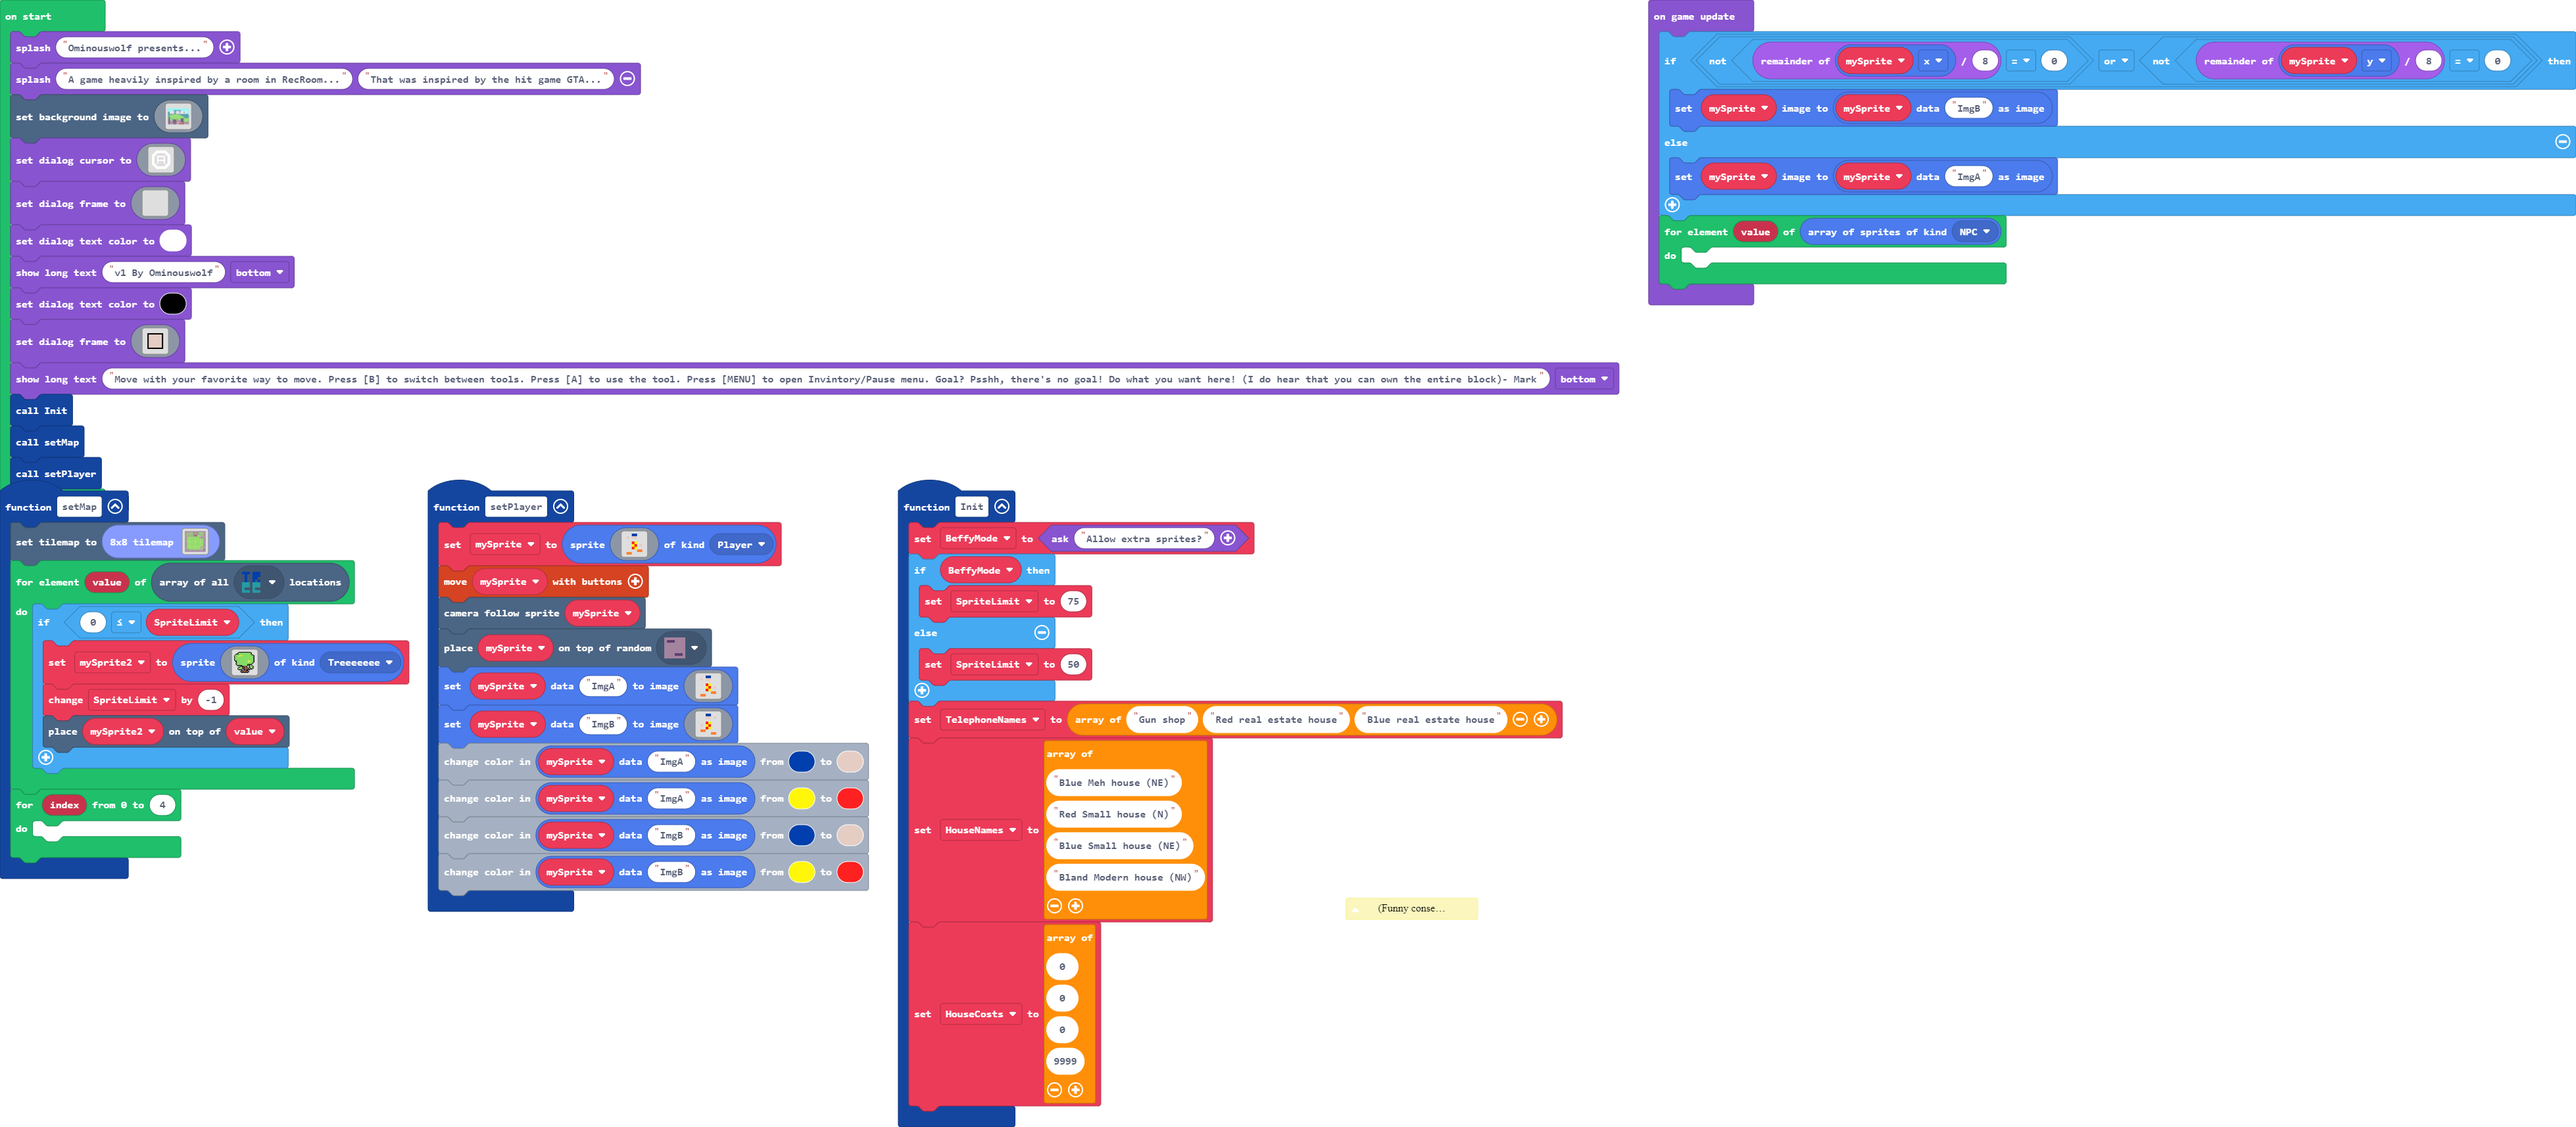
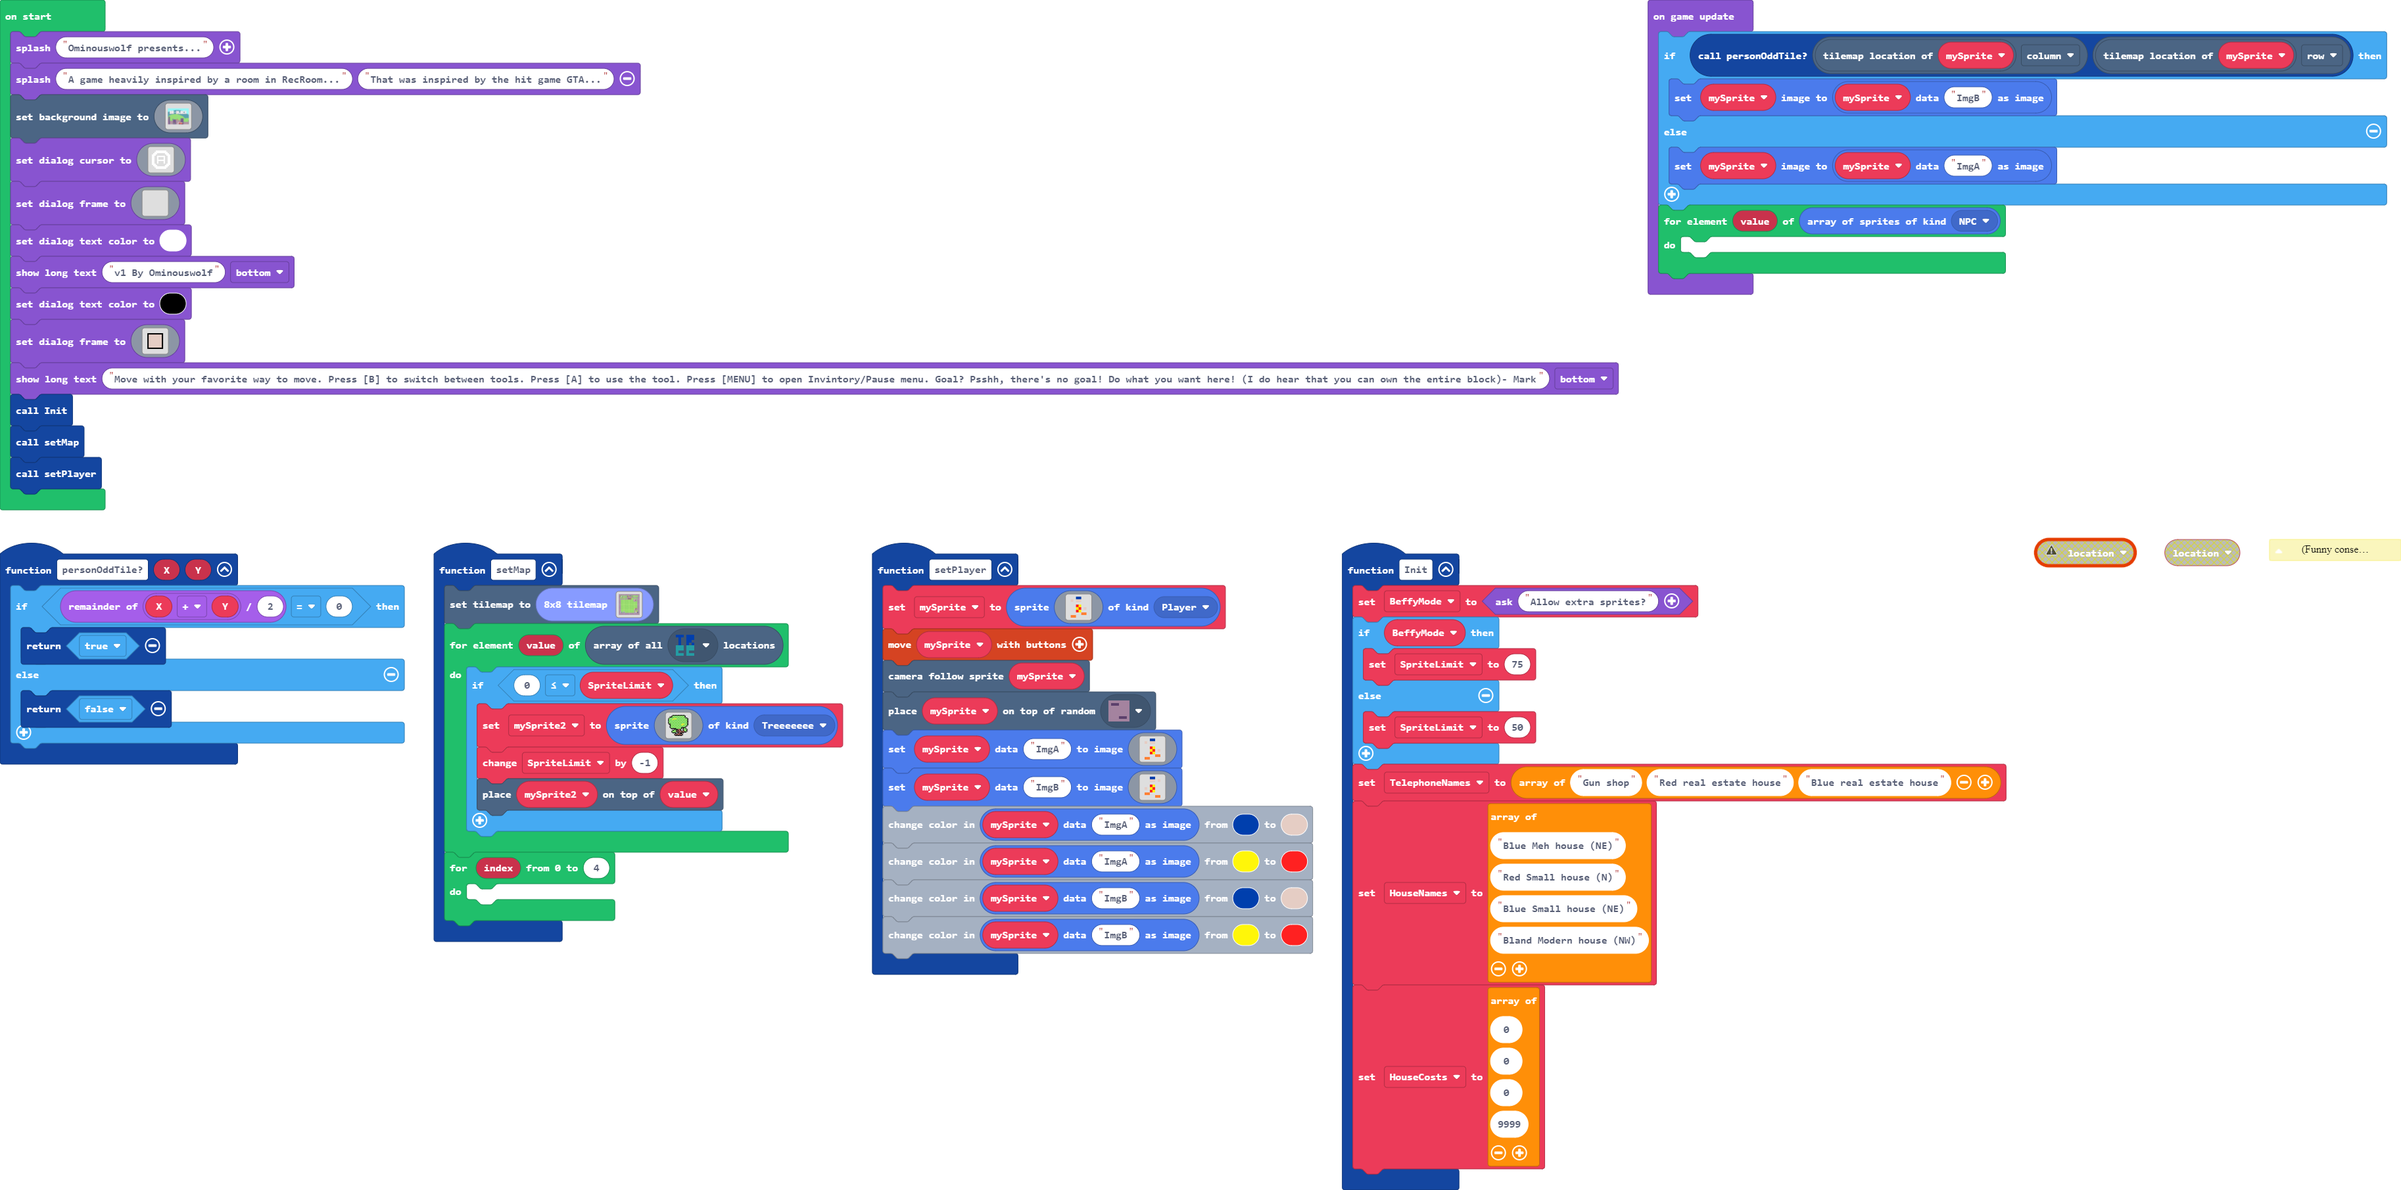
Added goofy walkin. (Credits to ChatGPT/OpenAI)

diff --git a/tilemap.g.ts b/tilemap.g.ts
@@ -82,6 +82,10 @@ namespace myTiles {
     export const tile37 = image.ofBuffer(hex``);
     //% fixedInstance jres blockIdentity=images._tile
     export const tile38 = image.ofBuffer(hex``);
+    //% fixedInstance jres blockIdentity=images._tile
+    export const tile40 = image.ofBuffer(hex``);
+    //% fixedInstance jres blockIdentity=images._tile
+    export const tile41 = image.ofBuffer(hex``);
 
     helpers._registerFactory("tilemap", function(name: string) {
         switch(helpers.stringTrim(name)) {
@@ -268,7 +272,7 @@ namespace myTiles {
 . . . . . . . . . . . . . . . . . . . . 
 `, [myTiles.transparency8], TileScale.Eight);
             case "CityMap":
[2 lines of base64/hex data omitted]
 2222222222222222222222222222222222222222222222222222222222222222222222222222222222222222222222222222
 2222222222222222222222222222222222222222222222222222222222222222222222222222222222222222222222222222
 2222222222222222222222222222222222222222222222222222222222222222222222222222222222222222222222222222
@@ -335,14 +339,14 @@ namespace myTiles {
 2222222......................................................................................2222222
 2222222......................................................................................2222222
 2222222......................................................................................2222222
-2222222......................................................................................2222222
-2222222......................................................................................2222222
-2222222......................................................................................2222222
-2222222......................................................................................2222222
-2222222......................................................................................2222222
-2222222......................................................................................2222222
-2222222......................................................................................2222222
-2222222......................................................................................2222222
+2222222.........................................................................222222222....2222222
+2222222.........................................................................2...2...2....2222222
+2222222.........................................................................2...2...2....2222222
+2222222.....................................................................22222...2...2....2222222
+2222222.....................................................................22222...22222....2222222
+2222222....................................................................222222...22222....2222222
+2222222....................................................................2222.2...2.2.2....2222222
+2222222....................................................................2.2222...22.22....2222222
 2222222......................................................................................2222222
 2222222......................................................................................2222222
 2222222......................................................................................2222222
@@ -351,13 +355,13 @@ namespace myTiles {
 2222222..........................................................................2222222222222222222
 2222222..........................................................................2..........22222222
 2222222..........................................................................2..........22222222
-2222222..........................................................................2222222....22222222
-2222222....222...................................................................2...2.2....22222222
-2222222....2222..................................................................22222.2.....2222222
-2222222....22222.................................................................2..22.2.....2222222
-2222222....222222................................................................2..22.2.....2222222
-2222222....2222222...............................................................22222.2222222222222
-2222222....2222.22...............................................................22222.2222222222222
+2222222.................222......................................................2222222....22222222
+2222222....222.........22222.....................................................2...2.2....22222222
+2222222....2222......222222222...................................................22222.2.....2222222
+2222222....22222.....2...2...2...................................................2..22.2.....2222222
+2222222....222222....2.22222.2...................................................2..22.2.....2222222
+2222222....2222222...222222222...................................................22222.2222222222222
+2222222....2222.22...2222.2222...................................................22222.2222222222222
 2222222..........................................................................2222222222222222222
 2222222..........................................................................22222.2222222222222
 2222222......................................................................................2222222
@@ -369,7 +373,7 @@ namespace myTiles {
 2222222222222222222222222222222222222222222222222222222222222222222222222222222222222222222222222222
 2222222222222222222222222222222222222222222222222222222222222222222222222222222222222222222222222222
 2222222222222222222222222222222222222222222222222222222222222222222222222222222222222222222222222222
-`, [myTiles.transparency8,myTiles.tile29,myTiles.tile1,myTiles.tile7,myTiles.tile15,myTiles.tile20,myTiles.tile21,myTiles.tile22,myTiles.tile23,myTiles.tile24,myTiles.tile25,myTiles.tile33,myTiles.tile32,myTiles.tile2,myTiles.tile8,myTiles.tile9,myTiles.tile12,myTiles.tile16,myTiles.tile30,myTiles.tile18,myTiles.tile26,myTiles.tile10,myTiles.tile13,myTiles.tile28,myTiles.tile27,myTiles.tile35,myTiles.tile3,myTiles.tile11,myTiles.tile17,myTiles.tile4,myTiles.tile37,myTiles.tile36,myTiles.tile38], TileScale.Eight);
+`, [myTiles.transparency8,myTiles.tile29,myTiles.tile1,myTiles.tile7,myTiles.tile15,myTiles.tile20,myTiles.tile21,myTiles.tile22,myTiles.tile23,myTiles.tile24,myTiles.tile25,myTiles.tile33,myTiles.tile32,myTiles.tile2,myTiles.tile8,myTiles.tile9,myTiles.tile12,myTiles.tile16,myTiles.tile30,myTiles.tile18,myTiles.tile26,myTiles.tile10,myTiles.tile13,myTiles.tile28,myTiles.tile27,myTiles.tile35,myTiles.tile3,myTiles.tile11,myTiles.tile17,myTiles.tile4,myTiles.tile37,myTiles.tile36,myTiles.tile38,myTiles.tile5,myTiles.tile14,myTiles.tile41], TileScale.Eight);
         }
         return null;
     })
@@ -456,6 +460,10 @@ namespace myTiles {
             case "tile37":return tile37;
             case "BOX alt-854032b":
             case "tile38":return tile38;
+            case "NotADoorBozoo":
+            case "tile40":return tile40;
+            case "jobWindow0":
+            case "tile41":return tile41;
         }
         return null;
     })

diff --git a/main.ts b/main.ts
@@ -2,6 +2,24 @@ namespace SpriteKind {
     export const Treeeeeee = SpriteKind.create()
     export const NPC = SpriteKind.create()
 }
+/**
+ * (Funny consept for homes)
+ * 
+ * Red & Blue: 3/4 added
+ * 
+ * Red: 1/2 added
+ * 
+ * Blue: 1/4 added
+ * 
+ * No color: Normal cost
+ */
+function personOddTile (X: number, Y: number) {
+    if ((X + Y) % 2 == 0) {
+        return true
+    } else {
+        return false
+    }
+}
 function setMap () {
     tiles.setCurrentTilemap(tileUtil.createSmallMap(tilemap`CityMap`))
     for (let value of tiles.getTilesByType(assets.tile`treeSpawn`)) {
@@ -27,17 +45,6 @@ function setPlayer () {
     sprites.readDataImage(mySprite, "ImgB").replace(8, 13)
     sprites.readDataImage(mySprite, "ImgB").replace(5, 2)
 }
-/**
- * (Funny consept for homes)
- * 
- * Red & Blue: 3/4 added
- * 
- * Red: 1/2 added
- * 
- * Blue: 1/4 added
- * 
- * No color: Normal cost
- */
 function Init () {
     BeffyMode = game.ask("Allow extra sprites?")
     if (BeffyMode) {
@@ -80,7 +87,7 @@ Init()
 setMap()
 setPlayer()
 game.onUpdate(function () {
-    if (!(mySprite.x % 8 == 0) || !(mySprite.y % 8 == 0)) {
+    if (personOddTile(mySprite.tilemapLocation().column, mySprite.tilemapLocation().row)) {
         mySprite.setImage(sprites.readDataImage(mySprite, "ImgB"))
     } else {
         mySprite.setImage(sprites.readDataImage(mySprite, "ImgA"))
